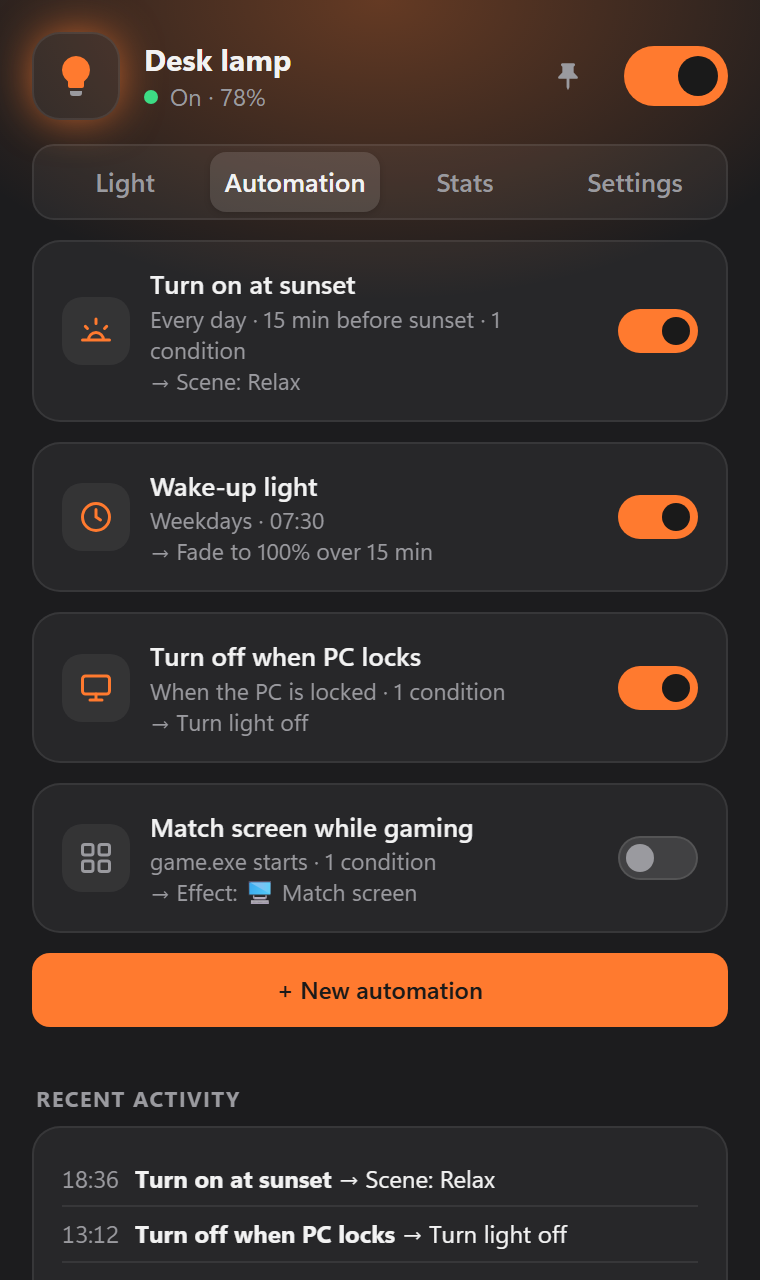
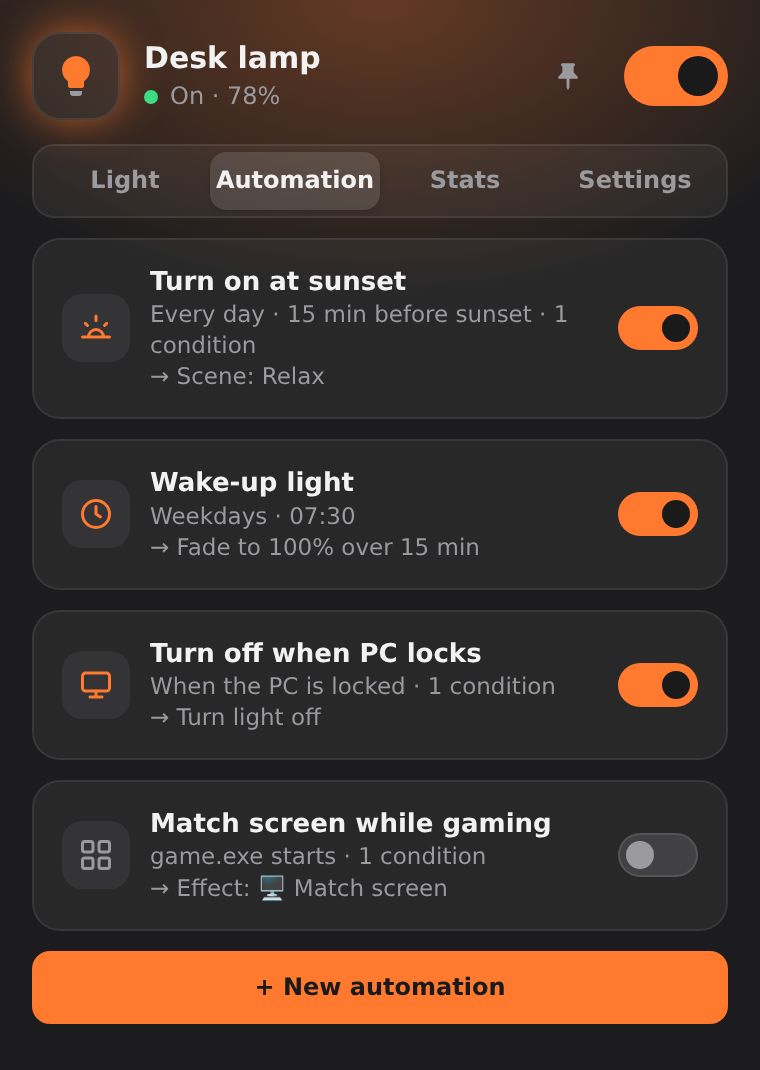
docs: show four corrected Glowtray UI screenshots

diff --git a/app/ui/index.html b/app/ui/index.html
@@ -60,7 +60,7 @@ body:not(.off) .bulb{box-shadow:0 0 24px -4px var(--lc)}
 
 /* tabs */
 .tabs{position:relative;display:flex;margin:2px 16px 10px;padding:3px;border-radius:11px;background:var(--card);border:1px solid var(--card-b)}
-.tabs button{flex:1;position:relative;z-index:1;border:0;background:none;padding:6px 0;border-radius:8px;color:var(--muted);font-weight:600}
+.tabs button{flex:1;min-width:0;position:relative;z-index:1;border:0;background:none;padding:6px 0;border-radius:8px;color:var(--muted);font-weight:600;font-size:12px;white-space:nowrap}
 .tabs button.active{color:var(--text)}
 .tabs .ind{position:absolute;top:3px;bottom:3px;border-radius:8px;background:var(--seg);transition:left .25s cubic-bezier(.2,.8,.2,1),width .25s;box-shadow:0 1px 3px rgba(0,0,0,.15)}
 main{position:relative;flex:1;overflow-y:auto;overflow-x:hidden;padding:0 16px 16px}
@@ -145,6 +145,8 @@ input.hue::-webkit-slider-runnable-track{background:linear-gradient(90deg,red,#f
 .field+.field{border-top:1px solid var(--card-b)}
 .field label{color:var(--text)}
 .field .hint{display:block;color:var(--muted);font-size:11px}
+#idleField>div:first-child{min-width:0}
+.timeout-value{display:inline-flex;align-items:center;gap:4px;white-space:nowrap;flex:none}
 input[type=text],input[type=number],input[type=time],select{background:var(--input);border:1px solid var(--input-b);border-radius:8px;padding:5px 8px;outline:none;min-width:0}
 input[type=text]:focus,input[type=number]:focus,input[type=time]:focus,select:focus{border-color:var(--accent)}
 select option{background:var(--bg);color:var(--text)}
@@ -191,10 +193,10 @@ input[type=number]{width:72px}
 .subopts .lbl{font-size:12px;color:var(--muted);padding-top:6px}
 
 /* stats */
-.tiles{display:grid;grid-template-columns:repeat(3,1fr);gap:8px;margin-bottom:10px}
-.tile{background:var(--card);border:1px solid var(--card-b);border-radius:14px;padding:10px 10px 9px}
+.tiles{display:grid;grid-template-columns:repeat(3,minmax(0,1fr));gap:8px;margin-bottom:10px}
+.tile{min-width:0;background:var(--card);border:1px solid var(--card-b);border-radius:14px;padding:10px 10px 9px}
 .tile small{display:block;color:var(--muted);font-size:11px;font-weight:600}
-.tile b{display:block;font-size:17px;font-weight:650;margin-top:2px;font-variant-numeric:tabular-nums;white-space:nowrap}
+.tile b{display:block;font-size:16px;font-weight:650;margin-top:2px;font-variant-numeric:tabular-nums;white-space:nowrap}
 .tile span{display:block;color:var(--muted);font-size:11px;white-space:nowrap}
 .bars{display:flex;align-items:flex-end;gap:4px;height:110px;padding-top:6px}
 .bars .bc{flex:1;display:flex;flex-direction:column;align-items:center;gap:4px;height:100%;justify-content:flex-end;min-width:0}
@@ -305,7 +307,7 @@ input[type=number]{width:72px}
         <div class="seg" id="connSeg" style="margin-bottom:6px"><button data-v="share">Share with phone</button><button data-v="keep">Always connected</button></div>
         <div class="small muted" id="connHint"></div>
         <div class="field" id="idleField"><div><label>Idle timeout</label><span class="hint">How long to wait before releasing the connection</span></div>
-          <div><input type="number" id="idleSec" min="3" max="600"> s</div></div>
+          <div class="timeout-value"><input type="number" id="idleSec" min="3" max="600"> s</div></div>
       </div>
 
       <div class="sect">Hotkeys</div>

diff --git a/tools/screenshots.py b/tools/screenshots.py
@@ -2,8 +2,8 @@
 
     python tools/screenshots.py
 
-The panel (app/ui/index.html) is opened in headless Microsoft Edge with a stand-in for the Python API that returns
-sample data, so the images show the current UI without any personal settings, bulb address or desktop. Needs Edge
+The panel (app/ui/index.html) is opened in headless Edge/Chromium with a stand-in for the Python API that returns
+sample data, so the images show the current UI without any personal settings, bulb address or desktop. Needs Edge/Chromium
 and Pillow (already a Glowtray dependency).
 """
 import copy
@@ -13,13 +13,17 @@ import shutil
 import subprocess
 import sys
 import tempfile
+from pathlib import Path
 
 from PIL import Image
 
 ROOT = os.path.dirname(os.path.dirname(os.path.abspath(__file__)))
 DOCS = os.path.join(ROOT, "docs")
 W, H, SCALE = 380, 640, 2  # the panel's client area in the app, rendered at 2x
-SHOTS = {"light": "screenshot-light.png", "auto": "screenshot-automation.png"}
+SHOTS = {"light": ("screenshot-light.png", 515),
+         "auto": ("screenshot-automation.png", 535),
+         "stats": ("screenshot-stats.png", 510),
+         "settings": ("screenshot-settings.png", 515)}
 
 sys.path.insert(0, os.path.join(ROOT, "app"))
 import config  # noqa: E402  (only DEFAULTS is used; nothing is read from or written to %APPDATA%)
@@ -49,12 +53,31 @@ def sample_data():
     }
 
 
+def sample_stats():
+    """Fixed illustrative stats; never access a user's tracking database."""
+    from datetime import date, timedelta
+    today = date(2026, 10, 12)
+    series30 = [{"date": (today - timedelta(days=29 - i)).isoformat(),
+                 "label": str((today - timedelta(days=29 - i)).day),
+                 "on": 2500 + (i * 1217) % 9400} for i in range(30)]
+    series7 = [{**v, "label": "MTWTFSS"[(today - timedelta(days=6 - i)).weekday()]}
+               for i, v in enumerate(series30[-7:])]
+    return {"since": "2026-09-01", "today": {"on": 5580, "avg_bri": 68},
+            "week": {"on": 46100, "ons": 12},
+            "month": {"on": 194000, "wh": 405, "avg_bri": 64, "ons": 46,
+                      "hours": [0, 0, 0, 0, 0, 0, 0, 0, 8, 13, 20, 24, 14, 8, 14, 18, 26, 34, 42, 49, 40, 26, 12, 4]},
+            "daily_avg": 7210, "series7": series7, "series30": series30,
+            "top_scenes": [["Relax", 23], ["Read", 14], ["Sunset", 9]],
+            "top_effects": [["screen", 17], ["candle", 6]], "price": 0, "watts": 9}
+
+
 # Stands in for window.pywebview.api; ?tab=<name> opens that tab after init
 MOCK = """<style>html,body{width:%dpx!important;height:%dpx!important}</style>
 <script>
 (() => {
   const INIT = %s;
-  const fixed = { init: INIT, monitors: [], processes: [], stats: null };
+  const STATS = %s;
+  const fixed = { init: INIT, monitors: [], processes: [], stats: STATS };
   const api = new Proxy({}, { get: (_, k) => async () => k in fixed ? fixed[k] :
     k === "settings" ? { config: INIT.config, hotkeyErrors: [], autostart: false } :
     k === "sun" ? INIT.sun : k.startsWith("rule_") ? INIT.config.rules : { ok: true } });
@@ -66,37 +89,45 @@ MOCK = """<style>html,body{width:%dpx!important;height:%dpx!important}</style>
 """
 
 
-def find_edge():
+def find_browser():
+    override = os.environ.get("GLOWTRAY_SCREENSHOT_BROWSER")
+    if override:
+        path = shutil.which(override)
+        return path if path and os.path.isfile(path) else sys.exit(f"Browser not found: {override}")
     for base in (os.environ.get("ProgramFiles(x86)"), os.environ.get("ProgramFiles")):
         if base:
             path = os.path.join(base, "Microsoft", "Edge", "Application", "msedge.exe")
             if os.path.isfile(path):
                 return path
-    return shutil.which("msedge") or sys.exit("Microsoft Edge was not found")
+    for name in ("msedge", "chromium", "chromium-browser", "google-chrome"):
+        path = shutil.which(name)
+        if path:
+            return path
+    sys.exit("Microsoft Edge or Chromium was not found")
 
 
 def main():
-    edge = find_edge()
+    browser = find_browser()
     with open(os.path.join(ROOT, "app", "ui", "index.html"), encoding="utf-8") as f:
         html = f.read()
     i = html.index("<script>")
-    html = html[:i] + MOCK % (W, H, json.dumps(sample_data())) + html[i:]
+    html = html[:i] + MOCK % (W, H, json.dumps(sample_data()), json.dumps(sample_stats())) + html[i:]
 
     with tempfile.TemporaryDirectory() as tmp:
         page = os.path.join(tmp, "panel.html")
         with open(page, "w", encoding="utf-8") as f:
             f.write(html)
-        for tab, name in SHOTS.items():
+        for tab, (name, crop_height) in SHOTS.items():
             raw = os.path.join(tmp, tab + ".png")
             # Headless Edge has a minimum window width above 380px, so render wider and crop
-            subprocess.run([edge, "--headless=new", "--disable-gpu", "--hide-scrollbars",
+            subprocess.run([browser, "--headless=new", "--disable-gpu", "--hide-scrollbars",
                             f"--force-device-scale-factor={SCALE}", f"--window-size={W + 220},{H}",
                             "--virtual-time-budget=4000", f"--user-data-dir={os.path.join(tmp, 'profile')}",
-                            f"--screenshot={raw}", f"file:///{page.replace(os.sep, '/')}?tab={tab}"],
+                            f"--screenshot={raw}", f"{Path(page).as_uri()}?tab={tab}"],
                            check=True, capture_output=True, timeout=120)
             out = os.path.join(DOCS, name)
             with Image.open(raw) as im:
-                im.crop((0, 0, W * SCALE, H * SCALE)).save(out, optimize=True)
+                im.crop((0, 0, W * SCALE, crop_height * SCALE)).save(out, optimize=True)
             print("Wrote", os.path.relpath(out, ROOT))
 
 

diff --git a/tests/test_screenshots.py b/tests/test_screenshots.py
@@ -1,0 +1,71 @@
+"""The README captures must end at clean panel boundaries and be reproducible."""
+import importlib.util
+import json
+import os
+from pathlib import Path
+import unittest
+from unittest.mock import patch
+
+SPEC = importlib.util.spec_from_file_location(
+    "glowtray_screenshots", Path(__file__).resolve().parents[1] / "tools" / "screenshots.py"
+)
+assert SPEC is not None and SPEC.loader is not None
+shots = importlib.util.module_from_spec(SPEC)
+SPEC.loader.exec_module(shots)
+
+
+class ReadmeScreenshotTests(unittest.TestCase):
+    def test_four_product_tabs_have_captures(self):
+        self.assertEqual(set(shots.SHOTS), {"light", "auto", "stats", "settings"})
+        self.assertEqual(len({name for name, _ in shots.SHOTS.values()}), 4)
+        self.assertEqual(shots.SHOTS["stats"][1], 510)
+        self.assertEqual(shots.SHOTS["settings"][1], 515)
+        for _, crop_height in shots.SHOTS.values():
+            self.assertLessEqual(crop_height, shots.H)
+            self.assertGreater(crop_height, 0)
+
+    def test_stats_tiles_shrink_inside_compact_panel(self):
+        css = (Path(__file__).resolve().parents[1] / "app" / "ui" / "index.html").read_text()
+        self.assertIn("grid-template-columns:repeat(3,minmax(0,1fr))", css)
+
+    def test_compact_tab_labels_and_timeout_unit_stay_on_one_line(self):
+        ui = (Path(__file__).resolve().parents[1] / "app" / "ui" / "index.html").read_text()
+        self.assertIn(".tabs button{flex:1;min-width:0;", ui)
+        self.assertIn("font-size:12px", ui.split(".tabs button{", 1)[1].split("}", 1)[0])
+        self.assertIn(".timeout-value{display:inline-flex;", ui)
+        self.assertIn("white-space:nowrap;flex:none", ui.split(".timeout-value{", 1)[1].split("}", 1)[0])
+        self.assertIn('class="timeout-value"><input type="number" id="idleSec"', ui)
+
+    def test_readme_shows_all_four_static_captures(self):
+        readme = (Path(__file__).resolve().parents[1] / "README.md").read_text()
+        for name, _ in shots.SHOTS.values():
+            self.assertIn(f"docs/{name}", readme)
+        self.assertNotIn("feature-tour.mp4", readme)
+        self.assertNotIn("feature-tour.gif", readme)
+
+    def test_sample_stats_renders_usage_without_user_data(self):
+        stats = shots.sample_stats()
+        self.assertEqual(len(stats["series7"]), 7)
+        self.assertEqual(len(stats["series30"]), 30)
+        self.assertEqual(len(stats["month"]["hours"]), 24)
+        self.assertTrue(stats["today"]["on"] > 0)
+        self.assertEqual(stats["price"], 0)
+
+    def test_stats_mock_is_connected_to_panel_api(self):
+        page = shots.MOCK % (shots.W, shots.H, json.dumps(shots.sample_data()),
+                             json.dumps(shots.sample_stats()))
+        self.assertIn("stats: STATS", page)
+        self.assertIn('"series7"', page)
+
+    def test_browser_override_supports_non_windows_capture(self):
+        with patch.dict(os.environ, {"GLOWTRAY_SCREENSHOT_BROWSER": "/bin/true"}):
+            self.assertEqual(shots.find_browser(), "/bin/true")
+
+    def test_browser_override_rejects_missing_binary(self):
+        with patch.dict(os.environ, {"GLOWTRAY_SCREENSHOT_BROWSER": "/missing/browser"}):
+            with self.assertRaises(SystemExit):
+                shots.find_browser()
+
+
+if __name__ == "__main__":
+    unittest.main()

diff --git a/README.md b/README.md
@@ -6,10 +6,25 @@
 No Hue Bridge needed (or supported). Not affiliated with Signify or Philips.</p>
 
 <p align="center">
-  <img src="docs/screenshot-light.png" width="300" alt="The Glowtray panel: brightness slider, color wheel, swatches and f.lux sync">
-  &nbsp;
-  <img src="docs/screenshot-automation.png" width="300" alt="The Automation tab: sunset, wake-up and PC lock rules with recent activity">
+  <a href="#installation">Get started</a> ·
+  <a href="#requirements">Requirements</a> ·
+  <a href="#supported-lights">Supported lights</a> ·
+  <a href="#match-screen">Match screen</a>
 </p>
+
+<p align="center">
+  <img src="docs/screenshot-light.png" width="300" alt="Light tab: power, brightness, color wheel and swatches">
+  &nbsp;
+  <img src="docs/screenshot-automation.png" width="300" alt="Automation tab: sunset, wake-up, PC lock and match-screen rules">
+</p>
+<p align="center"><small>Light controls · Automation rules</small></p>
+<p align="center">
+  <img src="docs/screenshot-stats.png" width="300" alt="Stats tab: daily usage, energy estimate and hour-of-day chart">
+  &nbsp;
+  <img src="docs/screenshot-settings.png" width="300" alt="Settings tab: device selection and Bluetooth connection modes">
+</p>
+<p align="center"><small>Usage stats · Device and connection settings</small><br>
+<small>Glowtray's panel UI rendered with illustrative data; no personal settings, real bulb address or desktop are shown.</small></p>
 
 ---
 
@@ -17,13 +32,18 @@ Glowtray sits in your system tray as a little bulb that takes on the color of yo
 panel for brightness, white tone, color, scenes and effects. It can also automate the light based on what your PC is
 doing: lock the screen and the light goes off, come back and it turns on, and at sunset it dims to a warm tone.
 
-## Features
+## Everyday controls
 
-- **Basic controls:** on/off, brightness, color temperature (2200–6500 K), a color wheel and swatches
+- **Light controls:** on/off, brightness, color temperature (2200–6500 K where supported), a color wheel and swatches
 - **Scenes:** built-in presets, plus saving the current light as a new scene; also available from the tray menu
-- **Effects:** candle, fireplace, breathe, color loop, party, and *match screen* (the light follows the dominant color on
-  your display)
 - **Sleep timer:** turn off, toggle, or fade out slowly after a set time
+- Dark and light themes, optional start with Windows, and a tray icon that shows the light's current color
+
+## Advanced features
+
+- **Match screen:** on supported color bulbs, the light follows the dominant color and optionally the brightness of
+  a display you choose. [How screen matching works](#match-screen)
+- **Other effects:** candle, fireplace, breathe, color loop and party
 - **Automations:** *trigger → conditions → action* rules
   - Triggers: time of day, sunrise/sunset (with an offset), PC lock/unlock, idle/back, startup, sleep/resume,
     shutdown, a program starting or exiting
@@ -36,7 +56,20 @@ doing: lock the screen and the light goes off, come back and it turns on, and at
   you enter (not a measurement)
 - **Phone-friendly connection:** by default Glowtray releases the Bluetooth connection when idle, so the Hue app on your
   phone still works (a bulb accepts only one connection at a time)
-- Dark and light themes, optional start with Windows, and a tray icon that shows the light's current color
+
+## Match screen
+
+Select **Match screen** in the Light tab to mirror the dominant color of your chosen display on a color-capable bulb.
+While the effect is active, its options in the Light tab let you choose the display and whether screen brightness
+should affect the bulb. Glowtray samples a downscaled 64×36 image about four times per second, smooths the result, and
+sends bulb-control commands (including power, color and brightness), not screen pixels, over Bluetooth. The image is
+processed in memory; Glowtray does
+not save a screen recording, upload pixels, or send screenshots to the bulb. Stop the effect to stop sampling.
+
+This is ambient color matching, not frame-perfect video sync: transitions and Bluetooth latency will vary. The
+feature needs a Hue Bluetooth light that supports color; it is not available through a Hue Bridge.[^screen]
+
+[^screen]: Source: [`app/screen.py`](app/screen.py) and [`app/light.py`](app/light.py).
 
 ## Requirements
 
@@ -113,8 +146,10 @@ anyone's personal settings. After changing the UI, regenerate them with:
 python tools\screenshots.py
 ```
 
-This opens `app/ui/index.html` in headless Microsoft Edge at the panel's size and writes
-`docs/screenshot-light.png` and `docs/screenshot-automation.png`.
+This opens `app/ui/index.html` in headless Edge (or Chromium) at the panel's size and writes the four
+`docs/screenshot-*.png` files for Light, Automation, Stats and Settings. Set `GLOWTRAY_SCREENSHOT_BROWSER` to an
+Edge/Chromium executable if auto-detection does not find it. These are UI renders with fixed sample data, not
+captures of a running Windows/Bluetooth session; they stop at complete sections rather than cutting a card in half.
 
 ## Where data is stored
 

diff --git a/CHANGELOG.md b/CHANGELOG.md
@@ -5,9 +5,19 @@ All notable changes to this project are documented here. The format is based on
 
 ## [Unreleased]
 
+### Documentation
+- Put download, requirements and supported lights up front; group everyday and advanced features.
+- Explain how *Match screen* samples the display, which bulbs it needs and what is (not) stored.
+- Reframe the README captures at complete UI boundaries and allow Edge/Chromium regeneration.
+- Show Light, Automation, Stats and Settings in four sample-data README screenshots.
+
+### Fixed
+- Keep all three usage-stat tiles inside the compact panel width.
+- Keep tab labels clear of their segmented borders and the idle-timeout unit beside its value at compact widths.
+
 ## [1.2.0] - 2026-10-12
 
-First public, open-source release.
+Initial release prepared for open-source distribution.
 
 ### Added
 - `THIRD_PARTY_LICENSES.md` with the licenses of everything bundled into the exe; releases include it next to the exe.
